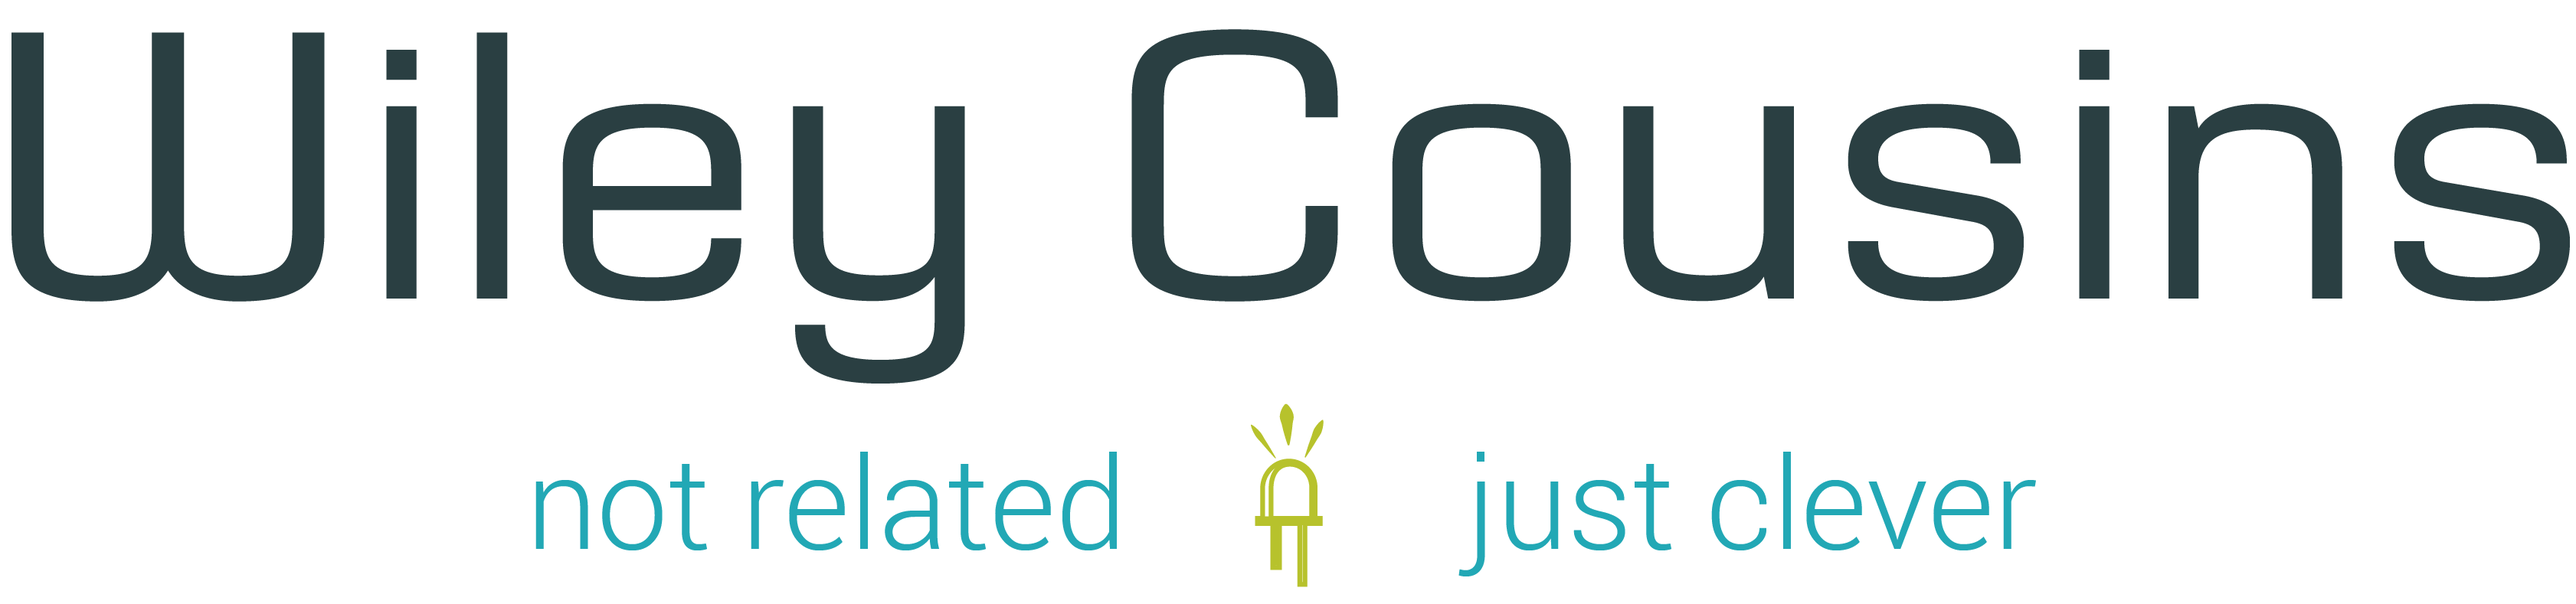
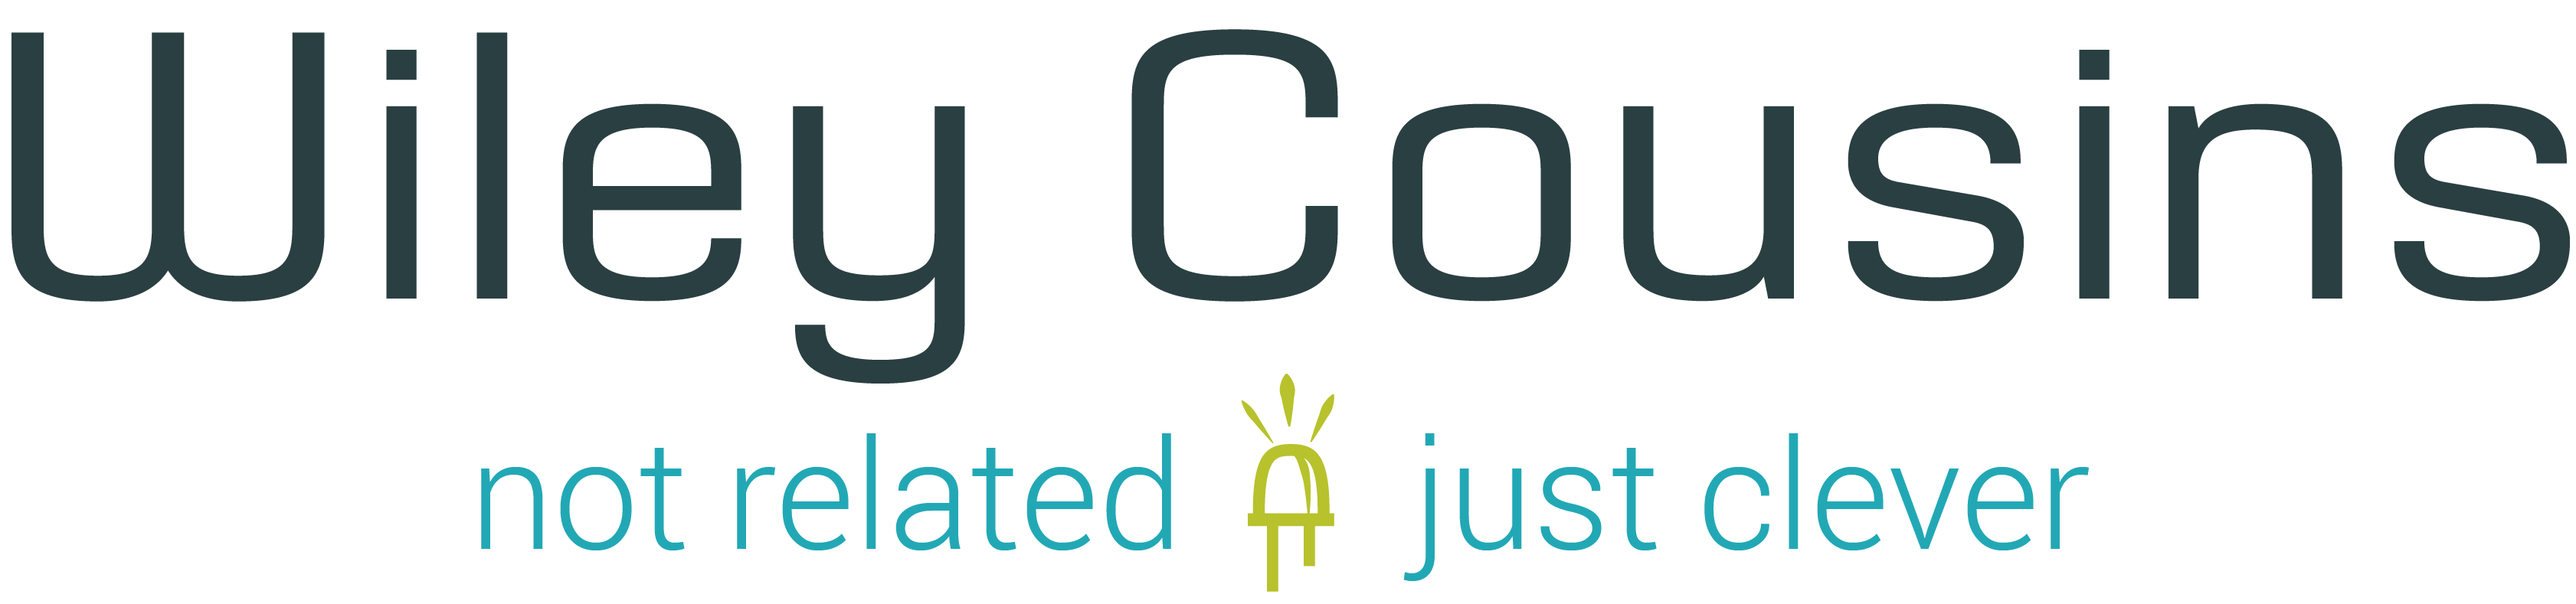
re-orderd page. fixing copy. new header img/fav

Changed region(s): [[0.1873, 0.6388, 0.8118, 0.9734]]

diff --git a/index.html b/index.html
@@ -1,1 +1,1 @@
-<!DOCTYPE html><html><head><title>Wiley Cousins</title><link type="text/css" rel="stylesheet" href="/css/index.css"><link rel="icon" type="image/x-icon" href="/images/fav.png"><meta name="viewport" content="width=device-width, initial-scale=1.0"><script type="text/javascript" src="http://ajax.googleapis.com/ajax/libs/jquery/1.10.2/jquery.min.js"></script><script type="text/javascript" src="http://netdna.bootstrapcdn.com/bootstrap/3.0.0/js/bootstrap.min.js"></script></head><body><a href="/"><img src="/images/title.png" title="Wiley Cousins" class="title"></a><br><div role="navigation" class="navbar nav"><div class="link"><a href="#gents">gents</a></div><div class="link"><a href="#skills">skills</a></div><div class="link"><a href="#products">products</a></div><div class="link"><a href="#contact">contact</a></div></div><div id="about" class="row col-md-12"><img src="/images/about.png"></div><div id="gents" class="container responsive"><div class="row"><h2 class="text-center">the gents</h2><br><br></div><div class="col-sm-9"><div class="row cole"><div class="col-sm-4"><h3 class="green">H. Cole Wiley</h3></div><div class="col-sm-7 body"><p>Cole has a background in software development, web development, sculpture, digital art, system architecture, computer vision, 3d modeling, rapid prototyping, and a couple other things. His favorite language at the moment is Coffeescript. He enjoys a double espresso in the morning, and a rye whiskey neat in the evening.</p><a href="https://github.com/hcwiley" target="_blank" class="link"><img src="/images/octocat.svg" title="github"><img src="/images/octocat-hover.svg" title="github" class="hover"></a><a href="http://hcwiley.com" target="_blank" class="link"><img src="/images/page.svg" title="webpage"><img src="/images/page-hover.svg" title="webpage" class="hover"></a><a href="mailto:cole@wileycousins.com" class="link"><img src="/images/email.svg" title="github"><img src="/images/email-hover.svg" title="email" class="hover"></a></div></div><div class="row"><div class="col-sm-9 col-sm-offset-2"><hr class="dotted"></div></div><div class="row mike"><div class="col-sm-4"><h3 class="blue">Michael Cousins</h3></div><div class="col-sm-7 body"><p>Michael is a Northwestern University educated mechanical engineer with a variety of interests outside the fun-filled world of engineering. He has experience in consumer product design (mostly plastic injection molded parts), as well as mechatronics/robotics design.</p><a href="https://github.com/mcous" target="_blank" class="link"><img src="/images/octocat.svg" title="github"><img src="/images/octocat-hover.svg" title="github" class="hover"></a><a href="http://mcous.in" target="_blank" class="link"><img src="/images/page.svg" title="webpage"><img src="/images/page-hover.svg" title="webpage" class="hover"></a><a href="mailto:michael@wileycousins.com" class="link"><img src="/images/email.svg" title="github"><img src="/images/email-hover.svg" title="email" class="hover"></a></div></div></div><div class="col-sm-3"><img src="/images/gents.png" title="the gents" width="100%" class="gents-img"></div></div><div id="skills"><div class="container"><div class="row"><h2 class="text-center white">skills</h2><br><br></div><div class="col-sm-12"><div class="row"><div class="col-sm-6 skill"><a data-toggle="collapse" data-parent="#accordion" href="#hardware-collapse" class="accordion-toggle"><div class="col-sm-4 col-sm-offset-3"><img src="/images/chip.svg"></div><div class="col-sm-2"><h3 class="green">hardware design &nbsp;</h3><h3 class="white">&amp;&nbsp;</h3><h3 class="green">development</h3></div></a><div id="hardware-collapse" class="panel-collapse collapse col-sm-8 col-sm-offset-3"><div class="panel-body"><p>We have experience with designing PCBs (printed circuit boards) to meet a variety of size and cost requirements</p></div></div></div><div class="col-sm-6 skill"><a data-toggle="collapse" data-parent="#accordion" href="#wireless-collapse" class="accordion-toggle"><div class="col-sm-4 col-sm-offset-3"><img src="/images/router.svg"></div><div class="col-sm-2"><h3 class="green">embedded wireless&nbsp;</h3><h3 class="white">&amp;&nbsp;</h3><h3 class="green">wifi</h3></div></a><div id="wireless-collapse" class="panel-collapse collapse col-sm-8 col-sm-offset-3"><div class="panel-body"><p>Making things talk over wireless is our favorite. No really. Its magic, and so are we when it comes to making things talk wireless.</p></div></div></div></div><div class="row"><div class="col-sm-6 skill"><a data-toggle="collapse" data-parent="#accordion" href="#mobile-collapse" class="accordion-toggle"><div class="col-sm-4 col-sm-offset-3"><img src="/images/phone.svg"></div><div class="col-sm-2"><h3 class="green">android&nbsp;</h3><h3 class="white">&amp;&nbsp;</h3><h3 class="green"> iOS apps</h3></div></a><div id="mobile-collapse" class="panel-collapse collapse col-sm-8 col-sm-offset-3"><div class="panel-body"><p>"I've got a great idea for an app!" Of course you do, everyone does. That's why we make them.</p></div></div></div><div class="col-sm-6 skill"><a data-toggle="collapse" data-parent="#accordion" href="#physical-collapse" class="accordion-toggle"><div class="col-sm-4 col-sm-offset-3"><img src="/images/wrench.svg"></div><div class="col-sm-3"><h3 class="green">physical prototyping&nbsp;</h3><h3 class="white">&amp;&nbsp;</h3><h3 class="green">production</h3></div></a><div id="physical-collapse" class="panel-collapse collapse col-sm-8 col-sm-offset-3"><div class="panel-body"><p>What do you get when put an egineer and a sculptor together? A whole lot of things... We love making things, especially physical things.</p></div></div></div></div></div></div></div></body><script type="text/javascript" src="/js/client.js"></script></html>
+<!DOCTYPE html><html><head><title>Wiley Cousins</title><link type="text/css" rel="stylesheet" href="/css/index.css"><link rel="icon" type="image/x-icon" href="/images/fav.png"><meta name="viewport" content="width=device-width, initial-scale=1.0"><meta name="keywords" content="hardware, software, development, design, new orleans, nola, louisiana, arduino, ARM, raspberry pi, wifi, wireless, sub ghz, embedded, systems, C, c++, cpp, CoffeeScript, 3d printing, cnc, milling, prototyping, production, rapid prototyping, debug,"><meta name="description" content="Hardware and software design and development"><meta name="author" content="Wiley Cousins"><script type="text/javascript" src="http://ajax.googleapis.com/ajax/libs/jquery/1.10.2/jquery.min.js"></script><script type="text/javascript" src="http://netdna.bootstrapcdn.com/bootstrap/3.0.0/js/bootstrap.min.js"></script></head><body><a href="/"><img src="/images/title.png" title="Wiley Cousins" class="title"><h1 style="display:none;">Wiley Cousins</h1></a><br><div role="navigation" class="navbar nav"><div class="link"><a href="#skills">skills</a></div><div class="link"><a href="#products">products</a></div><div class="link"><a href="#gents">gents</a></div><div class="link"><a href="#contact">contact</a></div></div><div id="about" class="row col-md-12"><img src="/images/about.png"></div><div id="skills"><div class="container"><div class="row"><h2 class="text-center green">skills</h2><br><br></div><div class="col-sm-12"><div class="row skill-row"><div class="col-sm-6 skill"><a data-toggle="collapse" data-parent="#accordion" href="#hardware-collapse" class="accordion-toggle"><div class="col-sm-4 col-sm-offset-2"><img src="/images/chip.svg"></div><div class="col-sm-2"><h3 class="blue">hardware design &nbsp;</h3><h3 class="green">&amp;&nbsp;</h3><h3 class="blue">development</h3></div></a><div id="hardware-collapse" class="panel-collapse collapse col-sm-8 col-sm-offset-2 in"><div class="panel-body"><p>We have experience with designing PCBs (printed circuit boards) to meet a variety of size and cost requirements.</p></div></div></div><div class="col-sm-6 skill"><a data-toggle="collapse" data-parent="#accordion" href="#wireless-collapse" class="accordion-toggle"><div class="col-sm-4 col-sm-offset-2"><img src="/images/router.svg"></div><div class="col-sm-2"><h3 class="blue">embedded wireless&nbsp;</h3><h3 class="green">&amp;&nbsp;</h3><h3 class="blue">wifi</h3></div></a><div id="wireless-collapse" class="panel-collapse collapse col-sm-8 col-sm-offset-2 in"><div class="panel-body"><p>Making things talk over wireless is our favorite. It's magic, and so are we when it comes to wireless.</p></div></div></div></div><div class="row skill-row"><div class="col-sm-6 skill"><a data-toggle="collapse" data-parent="#accordion" href="#mobile-collapse" class="accordion-toggle"><div class="col-sm-4 col-sm-offset-2"><img src="/images/phone.svg"></div><div class="col-sm-2"><h3 class="blue">android&nbsp;</h3><h3 class="green">&amp;&nbsp;</h3><h3 class="blue"> iOS apps</h3></div></a><div id="mobile-collapse" class="panel-collapse collapse col-sm-8 col-sm-offset-2 in"><div class="panel-body"><p>"I've got a great idea for an app!"</p><p>We know, that's why we make them.</p></div></div></div><div class="col-sm-6 skill"><a data-toggle="collapse" data-parent="#accordion" href="#physical-collapse" class="accordion-toggle"><div class="col-sm-4 col-sm-offset-2"><img src="/images/wrench.svg"></div><div class="col-sm-3"><h3 class="blue">physical prototyping&nbsp;</h3><h3 class="green">&amp;&nbsp;</h3><h3 class="blue">production</h3></div></a><div id="physical-collapse" class="panel-collapse collapse col-sm-8 col-sm-offset-2 in"><div class="panel-body"><p>What do you get when put an engineer and a sculptor together?</p><p>A whole lot of things... We love making physical things.</p></div></div></div></div></div></div></div><div id="products"><div class="container"><div class="row"><h2 class="text-center white">products</h2><br><br></div><div class="col-sm-12"><h3>clock block</h3></div></div></div><div id="gents" class="container responsive"><div class="row"><h2 class="text-center">the gents</h2><br><br></div><div class="col-sm-9"><div class="row cole"><div class="col-sm-4"><h3 class="green">H. Cole Wiley</h3></div><div class="col-sm-7 body"><p>Cole has a background in software development, web development, sculpture, digital art, system architecture, computer vision, 3d modeling, rapid prototyping, and a couple other things. His favorite language at the moment is Coffeescript. He enjoys a double espresso in the morning, and a rye whiskey neat in the evening.</p><a href="https://github.com/hcwiley" target="_blank" class="link"><img src="/images/octocat.svg" title="github"><img src="/images/octocat-hover.svg" title="github" class="hover"></a><a href="http://hcwiley.com" target="_blank" class="link"><img src="/images/page.svg" title="webpage"><img src="/images/page-hover.svg" title="webpage" class="hover"></a><a href="mailto:cole@wileycousins.com" class="link"><img src="/images/email.svg" title="github"><img src="/images/email-hover.svg" title="email" class="hover"></a></div></div><div class="row"><div class="col-sm-9 col-sm-offset-2"><hr class="dotted"><br></div></div><div class="row mike"><div class="col-sm-4"><h3 class="blue">Michael Cousins</h3></div><div class="col-sm-7 body"><p>Michael is a Northwestern University educated mechanical engineer with a variety of interests outside the fun-filled world of engineering. He has experience in consumer product design (mostly plastic injection molded parts), as well as mechatronics/robotics design.</p><a href="https://github.com/mcous" target="_blank" class="link"><img src="/images/octocat.svg" title="github"><img src="/images/octocat-hover.svg" title="github" class="hover"></a><a href="http://mcous.in" target="_blank" class="link"><img src="/images/page.svg" title="webpage"><img src="/images/page-hover.svg" title="webpage" class="hover"></a><a href="mailto:michael@wileycousins.com" class="link"><img src="/images/email.svg" title="github"><img src="/images/email-hover.svg" title="email" class="hover"></a></div></div></div><div class="col-sm-3"><img src="/images/gents.png" title="the gents" width="100%" class="gents-img"></div></div></body><script type="text/javascript" src="/js/client.js"></script></html>

diff --git a/css/index.css b/css/index.css
@@ -9,6 +9,8 @@ html,
 body {
   width: 100%;
   height: 100%;
+}
+body {
   background: url("../images/bg.png");
 }
 a {
@@ -24,13 +26,11 @@ h3,
 h4,
 h5 {
   font-family: 'Ubuntu', sans-serif;
-  font-weight: bold;
   color: #2a3f42;
   font-weight: 200;
   text-align: left;
 }
 h2 {
-  color: #2a3f42;
   font-variant: small-caps;
   font-size: 55px;
   font-weight: 200;
@@ -85,8 +85,9 @@ p {
   padding-bottom: 11px;
 }
 .navbar.nav .link a {
-  font-size: 20px;
-  font-weight: 700;
+  font-size: 23px;
+  font-weight: 200;
+  font-family: 'Ubuntu';
   color: #fff;
   font-variant: small-caps;
 }
@@ -125,7 +126,7 @@ p {
   width: 100%;
   background: #2a3f42;
   margin: 0px;
-  padding: 90px 0px;
+  padding: 100px 0px;
   box-shadow: 0px 5px 20px rgba(0,0,0,0.2);
 }
 #about img {
@@ -134,9 +135,51 @@ p {
 #main {
   margin-top: 0px;
 }
+#skills {
+  min-height: 500px;
+  padding: 50px 0px;
+}
+#skills .skill {
+  margin-bottom: 80px;
+}
+#skills .skill h3 {
+  display: inline-block;
+  margin: 0;
+  float: left;
+}
+#skills .skill .blue {
+  color: #22a8b5;
+}
+#skills .skill .white {
+  font-weight: 600;
+}
+#skills .skill img {
+  width: 100%;
+  max-height: 100px;
+  margin-bottom: 10px;
+}
+#skills .skill-row:last-child .skill {
+  margin-bottom: 10px;
+}
+@media only screen and (max-width: 768px) {
+  #skills .skill h3 {
+    text-align: center;
+    float: none;
+  }
+}
+#products {
+  background: #22a8b5;
+  box-shadow: 0px 0px 20px rgba(0,0,0,0.2);
+  min-height: 500px;
+  padding: 50px 0px;
+}
 #gents {
   position: relative;
-  margin: 40px auto;
+  margin: 0px auto;
+  padding: 50px 0px;
+}
+#gents h3 {
+  font-weight: 500;
 }
 #gents .body {
   line-height: 25px;
@@ -148,8 +191,14 @@ p {
   height: 50px;
   display: inline-block;
   float: none;
+  position: relative;
+  padding: 0;
 }
 #gents .link img {
+  padding: 0;
+  margin: 0;
+  top: 0px;
+  left: 0px;
   position: absolute;
   transition: opacity 0.5s;
   opacity: 1;
@@ -164,38 +213,6 @@ p {
 #gents .gents-img {
   max-width: 330px;
   margin-top: 70px;
-}
-#skills {
-  box-shadow: 0px -5px 20px rgba(0,0,0,0.2);
-  background: #22a8b5;
-  min-height: 500px;
-  padding: 50px 0px;
-}
-#skills .skill {
-  margin-bottom: 80px;
-}
-#skills .skill h3 {
-  display: inline-block;
-  margin: 0;
-  float: left;
-}
-#skills .skill .blue {
-  color: #2a3f42;
-}
-#skills .skill .white {
-  font-weight: 600;
-}
-#skills .skill img {
-  height: 100%;
-  width: auto;
-  max-width: 200px;
-  margin-bottom: 10px;
-}
-@media only screen and (max-width: 768px) {
-  #skills .skill h3 {
-    text-align: center;
-    float: none;
-  }
 }
 strong {
   font-variant: small-caps;

diff --git a/js/client.js b/js/client.js
@@ -8,12 +8,12 @@ function bindScroll(){
     if(curPos >= top ){
       if(!$(".navbar").hasClass("navbar-fixed-top") ){
         $(".navbar").addClass("navbar-fixed-top");
-        $("#about").css("top", $(".navbar").height()+"px");
+        $("#about").css("margin-top", $(".navbar").height()+"px");
       }
     }
     else {
       $(".navbar").removeClass("navbar-fixed-top");
-      $("#about").css("top", 0);
+      $("#about").css("margin-top", 0);
     }
   });
 }
